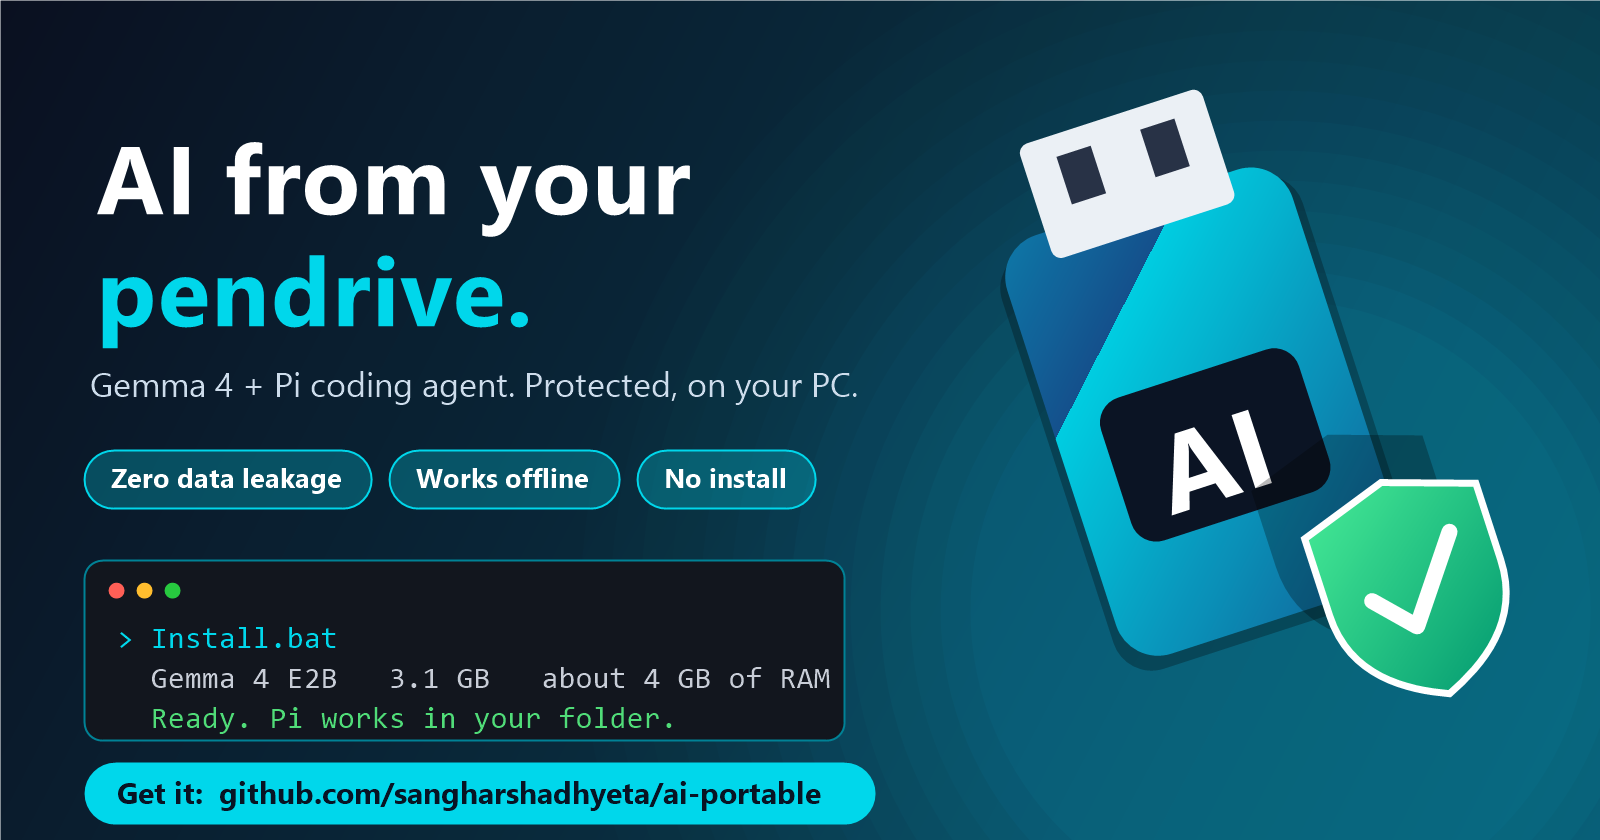
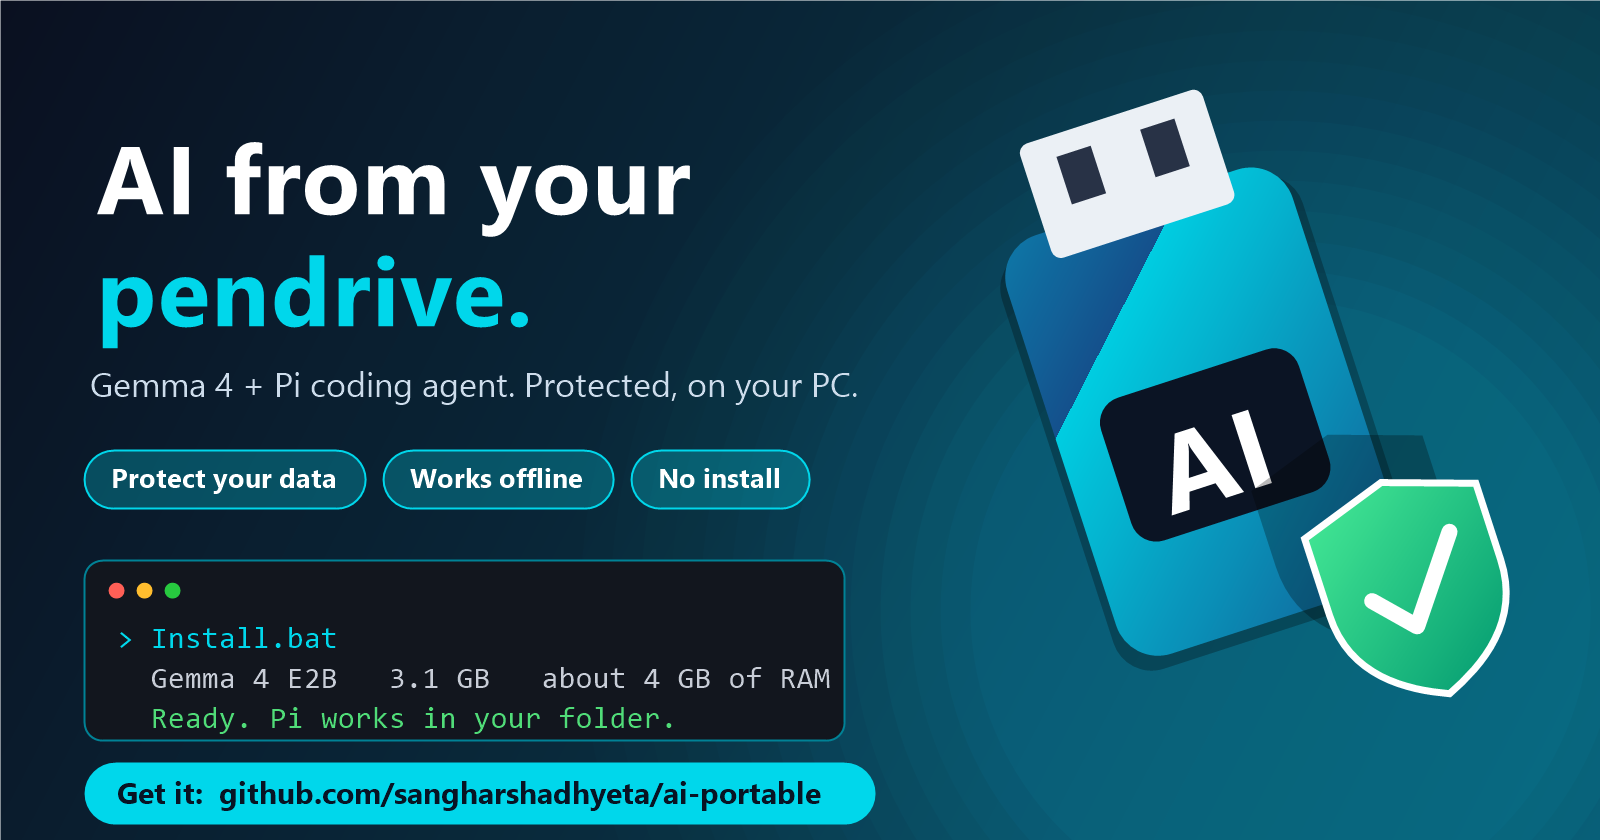
Ad wording: Protect your data

Changed region(s): [[0.0625, 0.5262, 0.5312, 0.619]]

diff --git a/README.md b/README.md
@@ -2,13 +2,13 @@
 
 **A local coding assistant on a pendrive.** Gemma 4 runs on your PC's processor through [llama.cpp](https://github.com/ggml-org/llama.cpp), and the [Pi coding agent](https://www.npmjs.com/package/@earendil-works/pi-coding-agent) works with it in a terminal window. No account, no cloud, no install: everything lives in one folder on the drive. Windows 10/11, 64-bit.
 
-![AI from your pendrive: zero data leakage, works offline, no install](docs/ad.png)
+![AI from your pendrive: protect your data, works offline, no install](docs/ad.png)
 
 ## Safety first: it runs with protection
 
 **Your files and prompts never leave your PC.** The model runs on your own processor, so there is no account, no API key and no cloud service to send anything to.
 
-- **No data leakage.** Nothing you type or open is sent anywhere. Telemetry and update checks are switched off, and the engine only listens on `127.0.0.1`, so nothing on your network can reach it. After the first install it works with the internet unplugged.
+- **Protect your data.** Nothing you type or open is sent anywhere. Telemetry and update checks are switched off, and the engine only listens on `127.0.0.1`, so nothing on your network can reach it. After the first install it works with the internet unplugged.
 - **Nothing installed, nothing left behind.** No administrator rights. The program's user, temp and app-data folders all point into the pendrive, so the PC gets no settings, history or temp files. Unplug the drive or delete the folder and it is gone. (Windows itself still notes that a USB drive was connected and that a program ran.)
 - **Verified downloads.** Node.js, llama.cpp and the model are each checked against a published SHA-256 before use. The launcher is plain readable text (`Install.bat`, `bin\launch.cmd`, `bin\setup.mjs`), so you can read exactly what it does.
 - **Be careful what you let the agent touch.** Pi starts in the folder you choose and can read and change files and run commands there. It is not a sandbox, and a small model can make mistakes. Pick a folder you have a copy of, keep important work backed up, and read what it proposes before you accept it.
